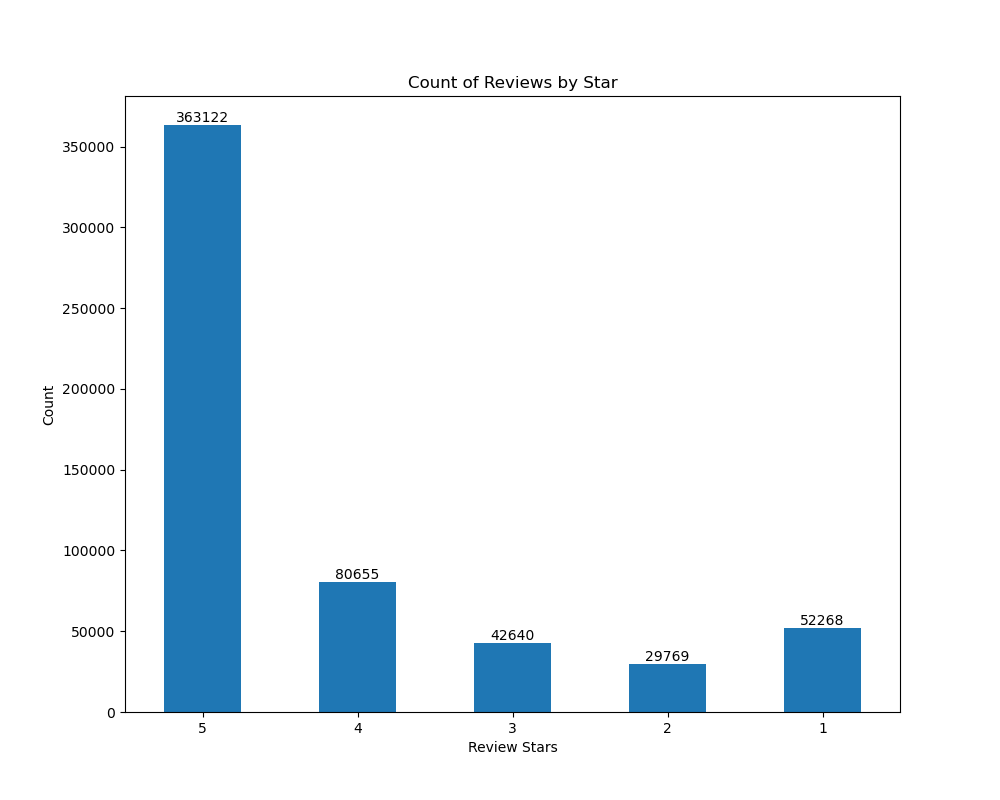
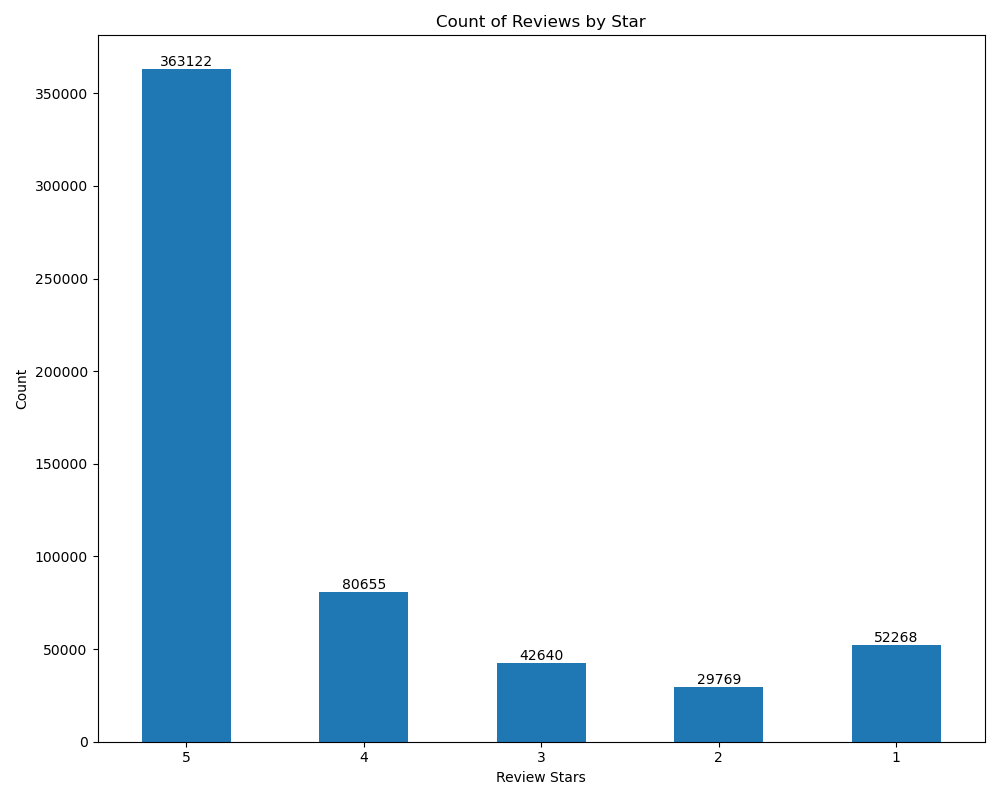
refactored plotting function and added basic eda

diff --git a/eda_02.py b/eda_02.py
@@ -3,7 +3,7 @@ import numpy as np
 import os 
 import matplotlib.pyplot as plt
 
-from helpers import load_data
+from helpers import load_data, plot_bar_with_annotations
 
 # define your directory where the data and database is before reading in the full dataabse path with the load_data helper funcction 
 database_path = r'data\database.sqlite'
@@ -20,60 +20,75 @@ print(df['Score'].describe(include = 'all')) # min score of 1 and max score of 5
 # check how many times each score occurs 
 print(df['Score'].value_counts().sort_index(ascending = False))
 
-# plot how many times each score occurs in all the reviews 
-plt.figure(figsize=(10, 8))
-ax1 = df['Score'].value_counts().sort_index(ascending = False) \
-    .plot(kind = 'bar')
-ax1.set_title('Count of Reviews by Star')
-ax1.set_xlabel('Review Stars')
-ax1.set_ylabel('Count')
-plt.xticks(rotation = 0)
-
-# add value labels on top of the bars 
-for bar in ax1.patches:
-    ax1.annotate(f'{int(bar.get_height())}',
-                 (bar.get_x() + bar.get_width() / 2, bar.get_height() + 0.1),
-                 ha='center', va='bottom', fontsize=10)
-
 # create graphs directory if it doesn't exist to save the graphs in 
 graphs_dir = 'graphs'
 os.makedirs(graphs_dir, exist_ok = True)
 
-# save the plot in the graphs directory 
-star_count_path = os.path.join(graphs_dir, 'reviews_star_distribution.png')
-plt.tight_layout
-plt.savefig(star_count_path)
-print(f'Plot saved to {star_count_path}')
+# plot how many times each score occurs in all the reviews 
+plot_bar_with_annotations(data = df['Score'].value_counts().sort_index(ascending = False),
+                          title = 'Count of Reviews by Star', 
+                          xlabel = 'Review Stars', 
+                          ylabel = 'Count',
+                          save_path = os.path.join(graphs_dir, 'reviews_star_distribution.png'))
 
 # plot the top 15 most common product ids 
-plt.figure(figsize=(10, 8))
 top_15_products = df['ProductId'].value_counts().nlargest(15)
 
-ax2 = top_15_products.plot(
-    kind='bar'
-)
-ax2.set_title('Count of Top 15 Most Reviewed Product IDs')
-ax2.set_xlabel('Product ID')
-ax2.set_ylabel('Review Count')
-plt.xticks(rotation=45, ha='right')
+plot_bar_with_annotations(data = top_15_products,
+                          title = 'Count of Top 15 Most Reviewed Product IDs', 
+                          xlabel = 'Product ID', 
+                          ylabel = 'Review Count',
+                          rotation = 45,
+                          save_path = os.path.join(graphs_dir, 'top15_reviewed_products.png'))
 
-# annotate the bars 
-for bar in ax2.patches:
-    ax2.annotate(f'{int(bar.get_height())}',
-                 (bar.get_x() + bar.get_width() / 2, bar.get_height() + 0.1),
-                 ha='center', va='bottom', fontsize=10)
+# plot the top 15 most frequent UserId and ProfileNames 
+top15_users = df[['UserId', 'ProfileName']].value_counts().nlargest(15)
 
-# save the plot 
-top15_product_path = os.path.join(graphs_dir, 'top15_reviewed_products.png')
-plt.tight_layout()
-plt.savefig(top15_product_path)
-print(f'Plot saved to {top15_product_path}')
+plot_bar_with_annotations(data = top15_users,
+                          title = 'Top 15 Users and Profile Names by Review Count', 
+                          xlabel = 'User ID and ProfileName', 
+                          ylabel = 'Review Count',
+                          rotation = 45,
+                          save_path = os.path.join(graphs_dir, 'top15_users_profiles_review_count.png'))
 
-# plot the top 10 most frequent UserId and ProfileNames 
+# find the most common years, months, and days of the week the reviews are posted at 
 
-# find the most common hours the reviews are posted at 
+# convert the time from a unix timestamp (default is in nanoseconds) to a datetime format (convert unix timestamp into a date format (seconds))
+df['Time'] = pd.to_datetime(df['Time'], unit = 's')
 
-# plot a trendline of the average score of reviews over time
+df['Year'] = df['Time'].dt.year
+print(df['Year'].value_counts())
+
+# plot how many reviews occur in each year 
+plot_bar_with_annotations(data = df['Year'].value_counts().sort_index(ascending = False),
+                          title = 'Count of Reviews by Year', 
+                          xlabel = 'Year', 
+                          ylabel = 'Count',
+                          save_path = os.path.join(graphs_dir, 'year_distribution.png'))
+
+df['Month'] = df['Time'].dt.month
+print(df['Month'].value_counts())
+
+# plot how many reviews occur in each month 
+plot_bar_with_annotations(data = df['Month'].value_counts(),
+                          title = 'Count of Reviews by Month', 
+                          xlabel = 'Month', 
+                          ylabel = 'Count',
+                          save_path = os.path.join(graphs_dir, 'month_distribution.png'))
+
+df['DayOfWeek'] = df['Time'].dt.day_name()
+print(df['DayOfWeek'].value_counts())
+
+# plot how many reviews occur on each day of the week 
+plot_bar_with_annotations(data = df['DayOfWeek'].value_counts(),
+                          title = 'Count of Reviews by Day of the Week', 
+                          xlabel = 'Day of the Week', 
+                          ylabel = 'Count',
+                          save_path = os.path.join(graphs_dir, 'dayOfWeek_distribution.png'))
+
+# plot a trendline of the average score of reviews over time (quarterly trend)
+
+# create a quarter column
 
 # find the most common words that show up in the body (text) of the review 
 

diff --git a/helpers.py b/helpers.py
@@ -1,5 +1,7 @@
 import sqlite3 
 import pandas as pd 
+import matplotlib.pyplot as plt
+import os
 
 def load_data(database_path):
     """
@@ -37,3 +39,38 @@ def load_data(database_path):
     # close the connection 
     conn.close()
     return df 
+
+# function to plot a bar graph with annotations 
+def plot_bar_with_annotations(data, title, xlabel, ylabel, rotation = 0, save_path = None, figsize = (10, 8)):
+    '''
+    plots a bar chart with annotations of the value 
+
+    Parameters: 
+     data (series): index is the x-axis like score, and values like count are y-axis heights
+     title (str): title of the plot 
+     xlabel (str): label for x axis 
+     ylabel (str): label for y axis 
+     rotation (int): rotation angle for x-axis labels: default reotation of 0
+     save_path (str): path to save plot to 
+     figsize (tuple): size of the figure: is a default of (10, 8)
+    '''
+    plt.figure(figsize = figsize)
+    ax = data.plot(kind = 'bar')
+    ax.set_title(title)
+    ax.set_xlabel(xlabel)
+    ax.set_ylabel(ylabel)
+    plt.xticks(rotation = rotation, ha = 'right' if rotation else 'center')
+
+    # label the bars with their values 
+    for bar in ax.patches:
+        ax.annotate(f'{int(bar.get_height())}',
+                    (bar.get_x() + bar.get_width() / 2, bar.get_height() + 0.1),
+                    ha='center', va='bottom', fontsize=10)
+    plt.tight_layout()
+
+    # save the plot if a save path was specified 
+    if save_path:
+        plt.savefig(save_path)
+        print(f'Plot saved to {save_path}')
+    plt.close()
+
